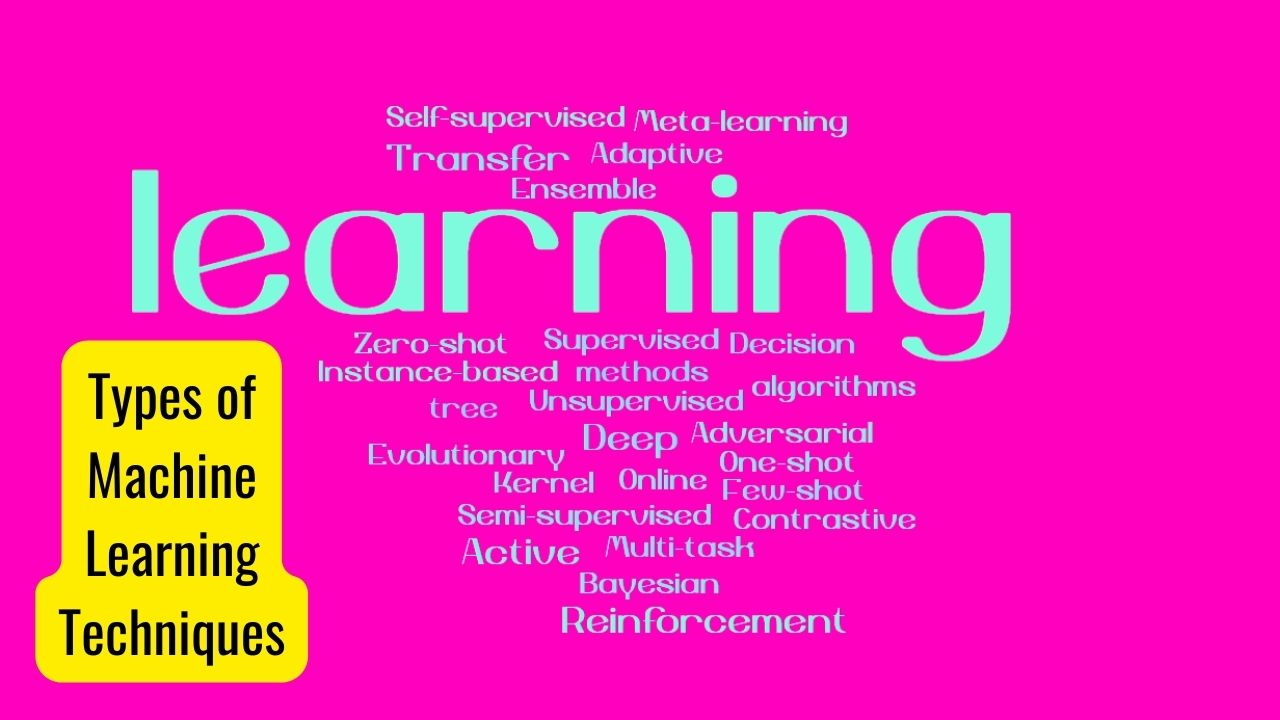
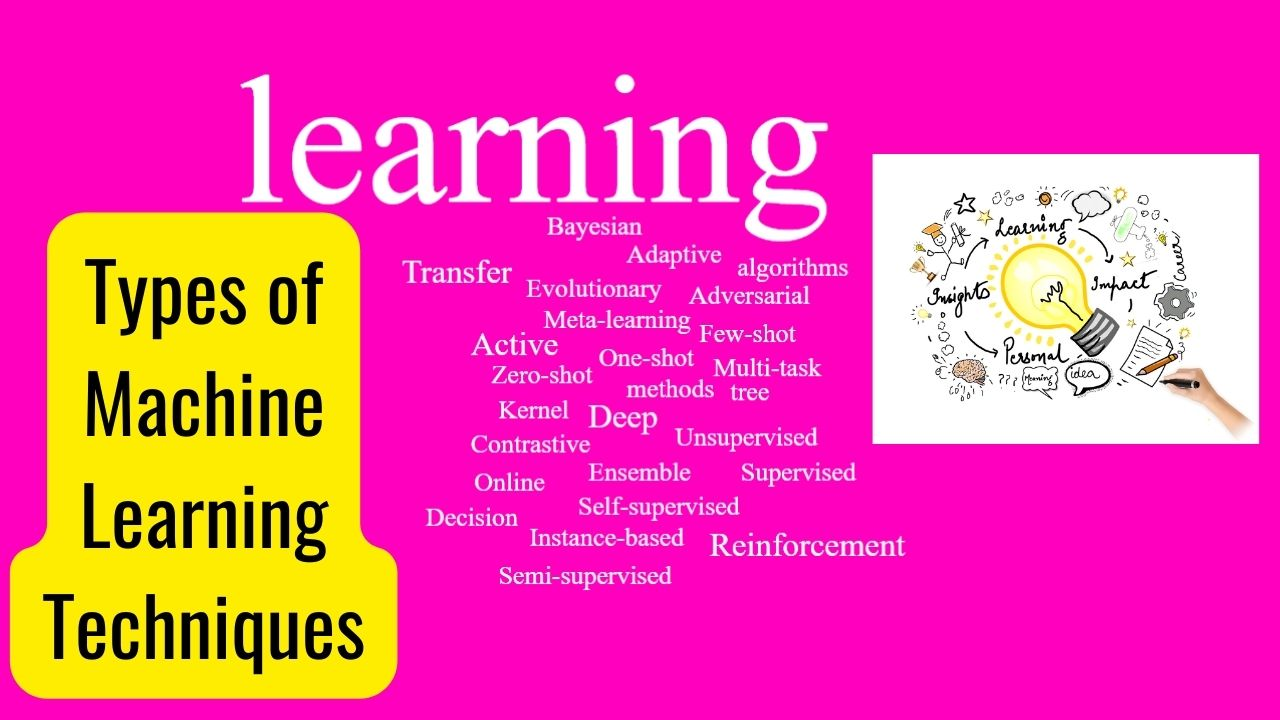
updated Types of ML article

diff --git a/_dsblog/2023-04-27-Types-of-Machine-Learning.md b/_dsblog/2023-04-27-Types-of-Machine-Learning.md
@@ -35,31 +35,88 @@ Machine learning is a field of artificial intelligence that focuses on developin
 ## Machine Learning Techniques
 
 
-### 1. Supervised learning:
+### 1. Supervised learning
 It is a type of machine learning where the model is trained on labeled data. In supervised learning, the model learns from a set of examples where the input data and the corresponding output labels are provided. Supervised learning is used for most common regression and classification tasks.
 
+Some examples of Supervised learning algorithms:
 
-### 2. Unsupervised learning:
+- Linear regression
+- Logistic regression
+- Decision trees
+- Random forests
+- Support vector machines (SVMs)
+- Naive Bayes
+- K-nearest neighbors (KNN)
+- Neural networks
+- Gradient Boosting Machines (GBMs)
+- Convolutional Neural Networks (CNNs)
+- Recurrent Neural Networks (RNNs)
+- Long Short-Term Memory (LSTM)
+- Gated Recurrent Unit (GRU)
+- Extreme Gradient Boosting (XGBoost)
+- LightGBM.
+
+### 2. Unsupervised learning
 It is a type of machine learning where the model learns to recognize patterns in data without the need for labeled examples. Unsupervised learning is used for clustering, dimensionality reduction, and anomaly detection.
 
+Some examples of unsupervised learning algorithms:
 
-### 3. Reinforcement learning:
+- Clustering Algorithms (K-Means, Hierarchical Clustering, DBSCAN, etc.)
+- Dimensionality Reduction Algorithms (PCA, t-SNE, LLE, etc.)
+- Anomaly Detection Algorithms (Isolation Forest, One-Class SVM, etc.)
+- Association Rule Learning Algorithms (Apriori, ECLAT, etc.)
+- Generative Adversarial Networks (GANs)
+- Autoencoders
+- Self-Organizing Maps (SOMs)
+- Independent Component Analysis (ICA)
+- Principal Component Analysis (PCA)
+- Non-negative Matrix Factorization (NMF)
+
+
+### 3. Reinforcement learning
 It is a type of machine learning where the model learns through trial and error by interacting with an environment. The model receives feedback in the form of rewards or penalties for the actions it takes and learns to maximize the rewards over time. RL is used when we don't have enough data to train the model, or when the data does not represent the real world, which has changed or changing fast. RL model building is time-consuming because learning is the process of acting. A robot that can perform a task where the law of physics needs to be obeyed needs RL.
 
+Some examples of reinforcement learning algorithms:
 
-### 4. Semi-supervised learning:
+- Q-Learning: Q-learning is a model-free reinforcement learning algorithm that learns to determine the value of an action in a particular state. It does not require a model of the environment and can handle problems with stochastic transitions and rewards.
+- SARSA (State-Action-Reward-State-Action): SARSA is another model-free reinforcement learning algorithm that is similar to Q-learning. However, instead of learning the value of the optimal action in a given state, it learns the value of the action actually taken.
+- Deep Q-Networks (DQN): DQN is a deep reinforcement learning algorithm that uses a neural network to approximate the action-value function. It has been successfully used to play Atari games and other complex tasks.
+- Actor-Critic: Actor-Critic is a family of reinforcement learning algorithms that combine elements of policy-based and value-based methods. It uses two networks, one to estimate the value of a state and another to estimate the policy.
+- Proximal Policy Optimization (PPO): PPO is a policy optimization method that updates the policy in small steps while ensuring that the policy does not move too far away from the previous policy. It has been shown to be effective in a wide range of tasks, including robotics and game playing.
+- Asynchronous Advantage Actor-Critic (A3C): A3C is a distributed version of the Actor-Critic algorithm that allows multiple agents to learn concurrently. It has been shown to be effective in both continuous and discrete action spaces.
+
+
+### 4. Semi-supervised learning
 It is a type of machine learning that combines both supervised and unsupervised learning. Semi-supervised learning uses a small amount of labeled data along with a large amount of unlabeled data to train the model. Here, first, we create a model with small labeled data and then use the model to predict the label of unlabelled data. After that, we use these predicted labels and create a bigger dataset. Now from this bigger dataset, we can further train the model. We keep doing this and making note of how the model is performing on the originally labeled data. Semi-supervised clustering is used in applications such as gene expression analysis and social network analysis.
 
+Some popular approaches for semi-supervised learning include:
 
-### 5. Transfer learning:
+- Self-Training: Self-training is a simple approach for semi-supervised learning. It involves training a model on the labeled data and then using that model to predict labels for the unlabeled data. The confident predictions are then added to the labeled dataset, and the process is repeated.
+- Co-Training: Co-Training is a semi-supervised learning approach where the algorithm uses multiple views of the data to train models. It involves training multiple models, each on a different subset of the features, and then exchanging the predicted labels for the unlabeled data between the models.
+- Generative Models: Generative models, such as Variational Autoencoders (VAE) and Generative Adversarial Networks (GAN), can also be used for semi-supervised learning. These models learn to generate new data points that are similar to the training data and can be used to label the unlabeled data.
+- Graph-Based Methods: Graph-based semi-supervised learning methods use the structure of the data to propagate the labels from the labeled to the unlabeled data. Some examples of graph-based methods include Label Propagation and Graph Convolutional Networks (GCN).
+- Entropy Regularization: Entropy regularization is a technique that encourages the model to make confident predictions by penalizing the entropy of the model's output distribution. This technique can be used to make the most of the limited labeled data by leveraging the information in the unlabeled data.
+
+
+### 5. Transfer learning
 It is a technique that enables a model to transfer knowledge learned from one task to another. Transfer learning can be used to improve the performance of a model on a new task where labeled data is scarce or where a task is very common and data is similar. TL is very common in Computer Vision, NLP, and reinforcement Learning.
 
+Although every neural network based model can be used for transfer learning but for example sake various models for transfer learning are:
 
-### 6. Online learning:
+- VGG: VGG is a popular deep learning model known for its accuracy on image classification tasks. It is often used as a pre-trained model for transfer learning.
+- ResNet: ResNet is another popular deep learning model known for its performance on image classification tasks. It has several variants, including ResNet-50 and ResNet-101.
+- BERT: BERT is a popular pre-trained model for natural language processing (NLP) tasks, including text classification and question answering.
+- GPT: GPT (Generative Pre-trained Transformer) is a pre-trained model for NLP tasks, including language modeling, question answering, and text completion.
+- Inception: Inception is a deep learning model known for its performance on image classification tasks. It has several variants, including InceptionV3 and Inception-ResNet.
+- MobileNet: MobileNet is a deep learning model optimized for mobile devices. It is often used for transfer learning on image classification tasks.
+- AlexNet: AlexNet is a deep learning model known for its accuracy on image classification tasks. It is often used as a pre-trained model for transfer learning.
+
+
+### 6. Online learning
 It is a type of machine learning where the model learns incrementally from incoming data streams. Online learning is used for real-time applications where the model needs to continuously adapt to new data. So parameters of the model keep updating after some time or after a certain number of observations. When data is too large to fit in the memory or changing fast, like millions of people buying thousands of products online, fraud detection, online advertisement, a live cast of an event, city traffic, mass political rally, city law, and order situation, especially in tense time, etc.
 
 
-Examples of online learning algorithms:
+Examples of online learning algorithms
 - Online Gradient Descent
 - Stochastic Gradient Descent
 - Adaptive Gradient Descent
@@ -72,7 +129,7 @@ Examples of online learning algorithms:
 - Perceptron Algorithm
 
 
-### 7. Deep learning:
+### 7. Deep learning
 It is a subset of machine learning that uses artificial neural networks with multiple layers to learn from data. Deep learning has achieved state-of-the-art results in tasks such as image recognition, natural language processing, and speech recognition.
 
 
@@ -88,7 +145,7 @@ Some examples of deep learning algorithms:
 - Deep Reinforcement Learning (DRL) - is used for decision-making tasks in environments with complex rules and states.
 
 
-### 8. Evolutionary algorithms:
+### 8. Evolutionary algorithms
 Evolutionary algorithms are a family of optimization algorithms that are inspired by the process of natural selection. In this approach, a population of candidate solutions is evolved over multiple generations to find the best solution to a given problem. The basic idea is to apply the principles of survival of the fittest, reproduction, and mutation to search for optimal solutions.
 
 
@@ -124,7 +181,7 @@ Some examples of Evolutionary algorithms are
 
 
 
-### 9. Bayesian learning:
+### 9. Bayesian learning
 Bayesian learning is a probabilistic approach to machine learning that involves using Bayes' theorem to update the probability of a hypothesis as new evidence is acquired. In Bayesian learning, we start with a prior belief about the probability of a hypothesis and then update this belief as new evidence becomes available. The result is a posterior probability distribution over the hypotheses that reflects our updated belief.
 
 
@@ -149,7 +206,7 @@ Examples of Bayesian learning algorithms:
 
 
 
-### 10. Instance-based learning:
+### 10. Instance-based learning
 Instance-based learning, also known as lazy learning, is a type of machine learning in which the algorithm learns by memorizing the training dataset instead of constructing a general model. It is a type of machine learning that relies on similarity measures between instances in a dataset to make predictions. In this approach, the algorithm makes predictions based on the similarity between new instances and the instances in the training dataset.
 
 
@@ -175,7 +232,7 @@ Examples of instance-based learning algorithms are:
 
 
 
-### 11. Kernel methods:
+### 11. Kernel methods
 These are techniques that use kernel functions to transform data into a higher-dimensional space, where linear models can be used to make predictions. Kernel methods are used in tasks such as classification, regression, and clustering. One of the most popular kernel methods is the support vector machine (SVM), which uses a kernel function to map input data into a higher-dimensional space and finds a hyperplane that maximizes the margin between two classes of data. Other examples of kernel methods include kernel PCA (principal component analysis) for dimensionality reduction, kernel k-means for clustering, and Gaussian processes for regression. Kernel methods are widely used in various domains, including image and speech recognition, natural language processing, and bioinformatics. They are particularly useful when the data has a complex structure and cannot be easily modeled using linear methods.
 
 
@@ -194,7 +251,7 @@ Examples of kernel methods algorithms:
 - Regularized Least Squares Classification (RLSC)
 
 
-### 12. Decision tree learning:
+### 12. Decision tree learning
 It is a method that builds a tree-like model of decisions and their possible consequences. Decision tree learning is used in many domains like medical diagnosis, fraud detection and credit risk analysis. Its simplicity and interpretability make it a popular choice for many businesses and organizations.
 
 
@@ -208,7 +265,7 @@ Some examples of decision tree learning algorithms:
 
 
 
-### 13. Ensemble learning:
+### 13. Ensemble learning
 It is a technique that combines multiple models to improve their accuracy and robustness. Ensemble learning is used in applications such as classification and regression.
 
 
@@ -223,7 +280,7 @@ Some examples of ensemble learning algorithms:
 - CatBoost: CatBoost is another recent boosting algorithm that is designed to handle categorical features more effectively than other boosting algorithms. It achieves this by using a novel approach called "Ordered Boosting", which creates a permutation of the categorical features that are ordered based on their impact on the loss function. This allows CatBoost to achieve higher accuracy on datasets with a large number of categorical features.
 
 
-### 14. Self-supervised learning:
+### 14. Self-supervised learning
 Self-supervised learning is a type of machine learning in which the algorithm learns from unlabeled data by creating labels from the data itself, rather than relying on human-labeled data.
 
 
@@ -254,7 +311,7 @@ Some examples of self-supervised learning:
 - Pretext tasks: Pretext tasks are a general category of self-supervised learning methods that involve training a neural network to perform a specific task that is not the ultimate task of interest, but is related to it. For example, a network may be trained to predict the rotation or colorization of an image and then fine-tuned on a downstream task such as image classification.
 
 
-### 15. Zero-shot learning:
+### 15. Zero-shot learning
 Zero-shot learning is a machine learning technique that allows a model to recognize and classify objects that it has never seen before. In zero-shot learning, the model is trained on a set of classes but is expected to recognize and classify instances of new classes that were not part of the training set. This is achieved by learning a semantic embedding space that maps the objects to a semantic space, where classes are represented as points or regions, and objects are classified based on their proximity to these points or regions. Zero-shot learning is particularly useful in situations where it is difficult or impossible to obtain labeled training data for all possible classes. An example of zero-shot learning is recognizing a new species of bird based on its visual characteristics, without having any labeled examples of that bird species in the training set.
 
 
@@ -265,7 +322,7 @@ Various Models which help Zero-shot learning:
 - Hybrid models: These models combine different approaches, such as attribute-based and semantic embedding models, to improve performance and generalize across different types of objects.
 
 
-### 16. One-shot learning:
+### 16. One-shot learning
 It is a type of machine learning where the model can learn from a single example. One-shot learning is used in applications such as facial recognition and handwriting recognition.
 
 
@@ -278,7 +335,7 @@ Models for one-shot learning, including:
 - Meta-learning (or Learning-to-learn) Models: Meta-learning models learn to learn from a few examples by training on many similar tasks. The idea is to learn a set of shared parameters that can be quickly adapted to a new task with few examples. One example of such models is MAML (Model-Agnostic Meta-Learning).
 
 
-### 17. Few-shot learning:
+### 17. Few-shot learning
 Few-shot learning is a type of machine learning where a model is trained to learn from a few examples of a new task or class. This is useful in scenarios where the dataset for a particular task is limited, but the model needs to generalize well and perform well on unseen data.
 
 
@@ -298,7 +355,7 @@ Various Models which help few-shot learning:
 
 
 
-### 18. Active learning:
+### 18. Active learning
 Active learning is a machine learning technique where an algorithm iteratively selects a subset of the available data to be labeled by an expert or a human annotator, with the goal of maximizing the performance of the model while minimizing the cost of annotation. Suppose we want to build a model that can classify customer support tickets into one of several categories (e.g., billing, technical support, product issues). We have a large set of unlabeled support tickets, but we can only afford to label a small fraction of them due to the cost of annotation.
 
 
@@ -319,7 +376,7 @@ Examples of algorithms for Active Learning are.
 - Random Forest: Random forests can be used for classification tasks in active learning scenarios. They can be useful for selecting the most informative data points to label next.
 
 
-### 19. Multi-task learning:
+### 19. Multi-task learning
 It is a type of machine learning where the model learns to perform multiple tasks simultaneously. The idea is that by sharing some of the learned representations across multiple tasks, the model can achieve better performance on each individual task. Multi-task learning is used in applications where the tasks are related, and the data is scarce. Suppose we want to build a machine learning model that can perform two related NLP tasks: sentiment analysis and topic classification. Sentiment analysis involves determining whether a given text expresses a positive or negative sentiment, while topic classification involves identifying the topic or subject of the text. Multi-task learning can be thought of as a type of multi-label classification (since it involves predicting multiple labels for each example), the focus of multi-label classification is the classification task itself, while the focus of multi-task learning is shared representations or knowledge transfer between tasks.
 
 
@@ -331,7 +388,7 @@ Models used for multi-task learning are:
 - Adversarial Multi-Task Learning: This model uses adversarial training to learn multiple tasks simultaneously. It involves training a generator network to generate examples that are similar to the training data, and a discriminator network to distinguish between the generated examples and the real examples. The tasks are learned by training the generator to generate examples that are specific to each task, while the discriminator is trained to recognize the task-specific examples.
 
 
-### 20. Active transfer learning:
+### 20. Active transfer learning
 It is a type of machine learning where the model can transfer knowledge from "related different tasks" to improve its performance on the current task. Active transfer learning involves using knowledge acquired during the training of one model to improve the performance of a different, but related, model. This knowledge transfer typically involves fine-tuning the parameters of the new model using data from the old model, or using the old model as a source of features for the new model. Suppose we have a neural network that has been trained to classify images of dogs and cats. We now want to use this network to classify images of different breeds of dogs, but we only have a limited amount of labeled data for these new breeds. Active transfer learning is used in applications such as natural language processing and image recognition.
 
 
@@ -346,7 +403,7 @@ Some examples of models for active transfer learning include:
 
 
 
-### 21. Meta-learning:
+### 21. Meta-learning
 It is a type of machine learning where the model learns how to learn. Meta-learning is used in applications such as few-shot learning and reinforcement learning.  Let's say the meta-learner has been trained on a set of classification tasks, such as classifying medical images, kitchen tools, and whether the given text is offensive or not. After training, the meta-learner has learned to recognize patterns and make accurate predictions for each of these tasks. Now, suppose a new classification task is presented to the system. For example, the task might involve classifying different species of animals based on images of their footprints. This is a new task because it involves a different type of data (footprint images), and a different set of categories to classify (animal species). The meta-learner analyzes the characteristics of the new task with a few samples and then uses its learned knowledge to generate a new model that is tailored to this specific task.
 
 
@@ -359,7 +416,7 @@ Meta-learning can be approached through different types of models, some of which
 
 
 
-### 22. Deep reinforcement learning:
+### 22. Deep reinforcement learning
 It is a subset of reinforcement learning that uses deep neural networks to learn from the environment. Deep reinforcement learning is used in applications such as game playing and robotics.
 
 
@@ -371,7 +428,7 @@ Some popular models for deep reinforcement learning include:
 - Dueling Network Architectures (Dueling DQN): Dueling DQN is a modification of the DQN architecture that separates the Q-value function into two parts: one that estimates the value of being in a particular state and another that estimates the advantage of taking a particular action in that state. This separation allows the agent to better generalize across actions and states and has been shown to improve performance on a number of benchmark tasks.
 
 
-### 23. Adversarial learning:
+### 23. Adversarial learning
 It is a type of machine learning where the model is trained to defend against adversarial attacks. Adversarial learning is used in applications such as computer security and image recognition. If an image of "apple" is changed by adverserial attack but visually it looks the the same. In this situation, machine are bound to get confuse and identify this as some different object. We don't want machine should get confused by adverserial attack. We want machine should identify this is an "apple", as human can see. At the same time machine should tell this has been changed, which human cannot see.
 
 
@@ -383,7 +440,7 @@ Some models commonly used in adversarial learning:
 - Adversarial Regularization: Adversarial regularization involves adding a regularization term to the loss function that encourages the model to produce outputs that are robust to adversarial examples.
 
 
-### 24. Contrastive learning:
+### 24. Contrastive learning
 It is a type of machine learning where the model learns to distinguish between similar and dissimilar instances in a dataset. Contrastive learning is used in applications such as representation learning and image recognition. An image of an "apple", a sound of word "apple", and text "apple" written on piece of paper, "apple" written on the image of apple, all are representing an idea "apple". If machine shows an image of apple and we type "orange" the system can say they both are different and your answer is wrong.
 
 
@@ -396,7 +453,7 @@ Some popular models for contrastive learning are:
 - SwAV (Swapping Assignments between Modalities) - A method for contrastive learning that jointly learns representations from multiple modalities (e.g., images and text).
 
 
-### 25. Adaptive Learning:
+### 25. Adaptive Learning
 While buying online, or consuming online content, recommendation of new product or content is not based only on the past data about the product and buyer but what action buyer has taken recently. Adaptive learning gives more importance to the data points of current or present actions.
 
 
@@ -408,7 +465,7 @@ There are many models and techniques that fall under adaptive learning. Here are
 - Adaptive boosting (AdaBoost): This is an ensemble learning method that combines several weak learners to create a strong learner. The algorithm adapts the weight of the weak learners based on their performance. AdaBoost is commonly used in computer vision, speech recognition, and other applications.
 
 
-## Conclusion:
+## Conclusion
 
 
 Machine learning techniques are essential for solving many real-world problems, from image recognition and natural language processing to self-driving cars and medical diagnosis. Each method has its strengths and limitations, and the choice of technique depends on the specific problem and the available data. By understanding the different types of machine learning techniques, you can select the most appropriate method for your project and achieve better results. As the field of machine learning continues to evolve, we can expect to see new and more powerful techniques emerge, making it an exciting time for anyone interested in artificial intelligence.

diff --git a/_samskrut/2023-04-26-shri-hanuman-sahasranamam.md b/_samskrut/2023-04-26-shri-hanuman-sahasranamam.md
@@ -1020,3 +1020,4 @@ share: true
 998. श्रित: – आश्रयवान्।
 999. रुद्र: – रुद्रस्वरूप ।
 1000. कामधुक्: – सारी कामनाओं को पूर्ण करनेवाले ।
+
